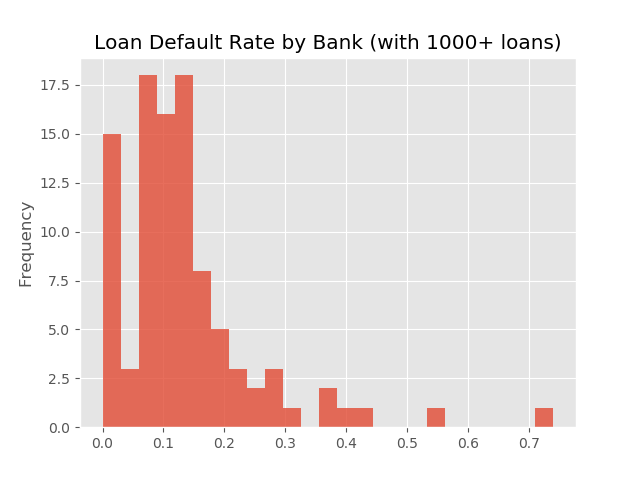
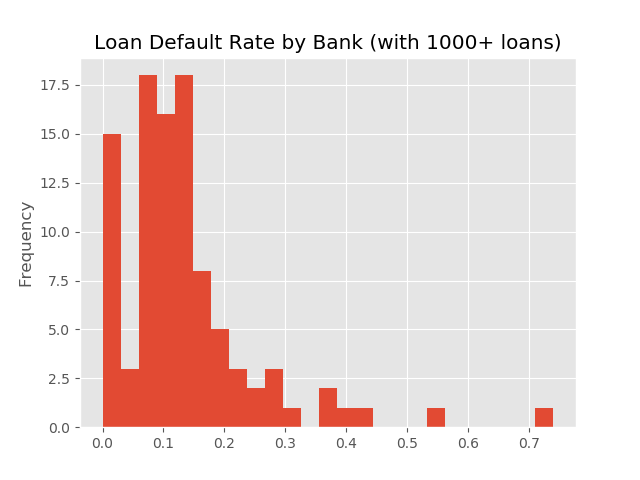
readme updated

diff --git a/src/model.py b/src/model.py
@@ -3,6 +3,7 @@ import pandas as pd
 import matplotlib.pyplot as plt
 plt.style.use('ggplot')
 plt.rcParams.update({'font.size': 10})
+from time import time
 
 from sklearn.preprocessing import StandardScaler 
 from sklearn.model_selection import train_test_split, GridSearchCV
@@ -81,9 +82,50 @@ def print_model_metrics(model, X_train, X_test, y_train, y_test):
     print("{} Precision (test):".format(name), precision_score(y_test, y_pred))
     print("{} Recall (test):".format(name), recall_score(y_test, y_pred))
 
+def plot_feature_importance(model, X, col_names):
+    importances = model.feature_importances_
+    #std = np.std([tree.feature_importances_ for tree in model.estimators_], axis=0)
+    indices = np.argsort(importances)[::-1]
+    name = model.__class__.__name__.replace('Classifier','')
+    # plt.bar(range(X.shape[1]), importances[indices],
+    #     color="r", yerr=std[indices], align="center")
+    plt.bar(range(X.shape[1]), importances[indices], color="r")
+    plt.title("{} Feature importances".format(name))
+    plt.xlabel("Feature number")
+    plt.ylabel("Feature importance")
+    plt.xticks(range(X.shape[1]), col_names[indices], rotation=45, fontsize=8, ha='right')
+
+    plt.xlim([-1, X.shape[1]])
+
+def gridsearch_with_output(estimator, parameter_grid, X_train, y_train):
+    '''
+        Parameters: estimator: the type of model (e.g. RandomForestRegressor())
+                    paramter_grid: dictionary defining the gridsearch parameters
+                    X_train: 2d numpy array
+                    y_train: 1d numpy array
+
+        Returns:  best parameters and model fit with those parameters
+    '''
+    model_gridsearch = GridSearchCV(estimator,
+                                    parameter_grid,
+                                    n_jobs=-1,
+                                    verbose=True)
+    model_gridsearch.fit(X_train, y_train)
+    best_params = model_gridsearch.best_params_ 
+    model_best = model_gridsearch.best_estimator_
+    print("\nResult of gridsearch:")
+    print("{0:<20s} | {1:<8s} | {2}".format("Parameter", "Optimal", "Gridsearch values"))
+    print("-" * 55)
+    for param, vals in parameter_grid.items():
+        print("{0:<20s} | {1:<8s} | {2}".format(str(param), 
+                                                str(best_params[param]),
+                                                str(vals)))
+    return best_params, model_best
+
 def load_split_data():
     df_loan = pd.read_pickle('data/loan_data')
-    df_loan = pd.read_pickle('data/loan_data')
+    feature_choice = ['Term', 'U_rate', 'SBA_g', 'GrAppv', 'SectorRisk', 'Default']
+    df_loan = df_loan[feature_choice]
     y = df_loan.pop('Default').values
     X = df_loan.values
     col_names = df_loan.columns
@@ -96,7 +138,7 @@ if __name__ == "__main__":
     (X_model, X_holdout, y_model, y_holdout), col_names = load_split_data()
 
     ### Rely on class_weight option to balance the data
-    X_train, X_test, y_train, y_test = train_test_split(X_model, y_model, test_size=0.2, random_state=42, stratify=y_model)
+    # X_train, X_test, y_train, y_test = train_test_split(X_model, y_model, test_size=0.2, random_state=42, stratify=y_model)
 
     # # Naive Bayes Model
     # # nb_model = MultinomialNB(alpha=1.0, fit_prior=True, class_prior=None)
@@ -123,4 +165,45 @@ if __name__ == "__main__":
     ### Rely on the undersample method to balance the data
     target_ratio = 0.45
     X_sampled, y_sampled = undersample(X_model, y_model, target_ratio)
+    X_train, X_test, y_train, y_test = train_test_split(X_sampled, y_sampled, test_size=0.2, random_state=42, stratify=y_sampled)
 
+    # Logistic Model
+    # lg_model = LogisticRegression(solver='lbfgs')
+    # print_model_metrics(lg_model, X_train, X_test, y_train, y_test)
+
+    # Randome Forest model
+    # rfc = RandomForestClassifier(n_estimators=300, n_jobs=-1, random_state=2,)
+    # print_model_metrics(rfc, X_train, X_test, y_train, y_test)
+    # plot_feature_importance(rfc, X_sampled, col_names)
+    # plt.savefig('images/rfc_feature_importances.png')
+    # plt.close()
+
+    # Gradient Descend Boost model 
+    # gbc = GradientBoostingClassifier(learning_rate=0.2, n_estimators=300, random_state=2,
+    #                                 min_samples_leaf=200, max_depth=3, max_features=3)
+    # print_model_metrics(gbc, X_train, X_test, y_train, y_test)
+    # plot_feature_importance(gbc, X_sampled, col_names)
+    # plt.savefig('images/gbc_feature_importances.png')
+    # plt.close()
+
+    # AdaBoost Model
+    # abc = GradientBoostingClassifier(learning_rate=0.2, loss='exponential', n_estimators=300, random_state=2,
+    #                                 min_samples_leaf=200, max_depth=3, max_features=3)
+    # print_model_metrics(abc, X_train, X_test, y_train, y_test)
+
+    ## Reduce model to 5 variables: Term, U_rate, SBA_g, GrAppv, Sector_Risk
+    ## Conduct gridSearch to find the best fitting gbc model
+
+    gradient_boosting_grid = {'learning_rate': [0.2, 0.1, 0.05],
+                              'max_depth': [3, 5],
+                              'min_samples_leaf': [50, 200],
+                              'max_features': [2, 3],
+                              'n_estimators': [300, 500],
+                              'random_state': [2]}
+    ts = time()
+    gdbr_best_params, gdbr_best_model = gridsearch_with_output(GradientBoostingClassifier(), 
+                                                               gradient_boosting_grid, 
+                                                               X_train, y_train)
+    te= time()
+    print("Time passed:", te-ts)
+    

diff --git a/src/data_eda.py b/src/data_eda.py
@@ -61,7 +61,7 @@ def plot_default_rate(df, col, title, bins=25, cutoff=0):
         ax.set_xlabel('')
     else:
         df_plot = df_grouped[df_grouped['LoanNr']>cutoff].sort_values('Default', ascending=False)
-        ax = df_plot['Default'].plot.hist(bins=bins, alpha=0.8)
+        ax = df_plot['Default'].plot.hist(bins=bins)
         ax.set_title(title)
 
 def plot_pca_explained_var(ax, pca):
@@ -76,8 +76,6 @@ def plot_pca_explained_var(ax, pca):
 
 if __name__ == "__main__":
 
-    df = pd.read_pickle('data/pickled_loan')
-    
     # us_unemploy = pd.read_csv('data/us_unemployment.csv', index_col=0)
     # ur = us_unemploy.values.reshape(-1,1)[:-8]
     # date_range = pd.date_range('1965-01','2020-05', freq='M')
@@ -89,38 +87,40 @@ if __name__ == "__main__":
     # plt.savefig('images/unemployment.png')
     # plt.close()
 
+    df = pd.read_pickle('data/pickled_loan')
+    df.drop(['grouper','Date'], axis=1, inplace=True)
+
     # df_state = df.groupby('State').mean()['Default']*100
     # columns =['State', 'Default_Rate']
     # m = heatmap_state(df_state, columns, 'Default Rate (%)', 'YlGn')
-
-    # plot_default_rate(df, 'Bank', "Loan Default Rate by Bank (with 3000+ loans)", cutoff=3000)
-    # plt.savefig('images/default_bank_3000.png')
-    # plt.close()
-
-    # plot_default_rate(df, 'Bank', "Loan Default Rate by Bank (with 1000+ loans)", cutoff = 1000)
-    # plt.savefig('images/default_bank_1000.png')
-    # plt.close()
 
     # plot_default_rate(df, 'Sector', "Default Rate by Sector (top 10)")
     # plt.savefig('images/default_sector.png')
     # plt.close()
 
-    df.drop(['grouper','Date'], axis=1, inplace=True)
+    plot_default_rate(df, 'Bank', "Loan Default Rate by Bank (with 3000+ loans)", cutoff=3000)
+    plt.savefig('images/default_bank_3000.png')
+    plt.close()
+
+    plot_default_rate(df, 'Bank', "Loan Default Rate by Bank (with 1000+ loans)", cutoff = 1000)
+    plt.savefig('images/default_bank_1000.png')
+    plt.close()
+
     df['SBA_g'] = df['SBA_Appv']/df['GrAppv']
-    df['stateRisk'] = df['State'].map({'FL':2, 'GA':2, 'DC':2, 'NV':2, 'IL':2, 'MI':2, 'TN':2, 'AZ':2, 'NJ':2, 'SC':2,
+    df['StateRisk'] = df['State'].map({'FL':2, 'GA':2, 'DC':2, 'NV':2, 'IL':2, 'MI':2, 'TN':2, 'AZ':2, 'NJ':2, 'SC':2,
                                        'NY':2, 'MD':2, 'KY':2, 'NC':2, 'TX':2, 'VA':2, 'CA':2, 'LA':1, 'DE':1, 'CO':1, 
                                        'UT':1, 'IN':1, 'AR':1, 'AL':1, 'OH':1, 'WV':1, 'MS':1, 'OK':1, 'OR':1, 'HI':1,
                                        'MO':1, 'PA':1, 'ID':1, 'CT':1, 'WA':1, 'MA':1, 'KS':1, 'WI':1, 'MN':1, 'IA':1,
                                        'RI':1, 'AK':1, 'NE':1, 'NM':1, 'NH':1, 'ME':0, 'SD':0, 'ND':0, 'VT':0, 'WY':0,
                                        'MT':0})
-    df['sectorRisk'] = df['Sector'].map({53:2, 52:2, 48:2, 51:2, 61:2, 56:2, 45:2, 23:2, 49:2, 44:2, 
+    df['SectorRisk'] = df['Sector'].map({53:2, 52:2, 48:2, 51:2, 61:2, 56:2, 45:2, 23:2, 49:2, 44:2, 
                                          72:2, 71:2, 81:1, 42:1, 31:1, 54:1, 32:1, 92:1, 22:1, 33:1,
                                          62:1, 55:1, 11:0, 21:0, 0:0})
     
-    df_loan = df[['stateRisk', 'sectorRisk', 'Term', 'NumEmp','LowDocu', 'GrAppv', 'SBA_g', 'U_rate','Default']]
+    df_loan = df[['StateRisk', 'SectorRisk', 'Term', 'NumEmp','LowDocu', 'GrAppv', 'SBA_g', 'U_rate','Default']]
     df_loan.to_pickle('data/loan_data')   
 
-    # X1 = df_loan[['stateRisk', 'sectorRisk', 'Term', 'NumEmp','GrAppv', 'SBA_g', 'U_rate']].values
+    # X1 = df_loan[['StateRisk', 'SectorRisk', 'Term', 'NumEmp','GrAppv', 'SBA_g', 'U_rate']].values
     # X2 = df_loan[['LowDocu']].values
     # scaler = StandardScaler(copy=True, with_mean=True, with_std=True)
     # X1_std_ss = scaler.fit_transform(X1)

diff --git a/src/data_clean.py b/src/data_clean.py
@@ -69,6 +69,7 @@ if __name__ == "__main__":
     us_unemploy = pd.read_csv('data/us_unemployment.csv', index_col=0)
     ur = us_unemploy.values.reshape(-1,1)[:-8]
     date_range = pd.date_range('1965-01','2020-05', freq='M')
+
     df_ur = pd.DataFrame(data=ur, index=date_range, columns=['U_rate'])
     df_ur['Date'] = df_ur.index
 

diff --git a/README.md b/README.md
@@ -3,12 +3,12 @@
 # Table of Contents
 1. [Background & Motivation](#background)
 2. [Data](#data)
-3. [EDA](#eda)
+3. [Data EDA](#eda)
 4. [Models](#model)
 5. [Results](#result)
 
 
-## Background & Motivation <a name="background"></a>
+## 1. Background & Motivation <a name="background"></a>
 
 The U.S. Small Business Administration (SBA) is a United States government agency that provides support to entrepreneurs and small businesses.  The agency was founded on July 30, 1953 with the primary goals of promoting and assisting small enterprises in the U.S.  In the United States, small businesses have been a primary source of innovation and job creation.  According to a [JP Morgan report](https://www.jpmorganchase.com/corporate/institute/small-business-economic.htm), small businesses accounted for over half (51.2%) of the net job creation in 2014, and 48% of US overall employment as of 2014.   
 
@@ -16,7 +16,7 @@ One way the SBA provides assistance to small businesses is to provide easier acc
 
 We are in the middle of the pandemic Covid-19.  It has brought sudden and significant threats not only to human health at the risk of overcrowding the medical system but also to normal economic operations when people stay at home to "flatten the curve".  Many small businesses are suffering.  On April 21, 2020, the U.S. Senate approved a $484 billion coronavirus relief package that would provide loans to distressed small businesses.  These loans are administered by commercial banks as the "Paycheck Protection Program (PPP) loans".  In this study, I would like to build models on historical SBA guaranteed loans.  My goal is to identify the key risk factors that differentiate high-risk loans (resulting in default) from low-risk loans (with full repayments). 
 
-## Data & EDA <a name="data"></a>
+## 2. Data & EDA <a name="data"></a>
 
 I found the dataset on kaggle.com, though it originally came from the U.S. SBA.  It contains historical data from 1968 to 2014 (899,164 observations in total).  The variable name, the data type and a brief description of each variable is found in the below table:
 
@@ -53,7 +53,7 @@ I found the dataset on kaggle.com, though it originally came from the U.S. SBA. 
 
 The following actions are taken to transform the data:
 
-* __NAICS__ (North American Industry Classification System):  This is a 2- through 6-digit hierachical classfication system used by the Federal agencies to classify business establishments for the statiscial collection, analysis, ana presentation of data.  The first two digits of NAICS represents the economic sector.  Even though the original data contains the 6-digit code (despite many missing values), efforts are taken to reduce the code to the first two digits, therefore summarizing the loans to sector level.  The below table shows the description of the NAICS sectors, with more details found on the [U.S. Census page](https://www.census.gov/cgi-bin/sssd/naics/naicsrch?chart=2017).
+* __NAICS__ (North American Industry Classification System):  This is a 2- through 6-digit hierachical classfication system used by the Federal agencies to classify business establishments for the purpose of statiscial collection, analysis, ana presentation of data.  The first two digits of NAICS represents the economic sector.  Even though the original data contains the 6-digit code (despite many missing values), efforts are taken to reduce the code to the first two digits, therefore summarizing the loans to the sector level.  The below table shows the description of the NAICS sectors, with more details found on the [U.S. Census page](https://www.census.gov/cgi-bin/sssd/naics/naicsrch?chart=2017).
 
    | Sector | Description                                                              |
    |--------|--------------------------------------------------------------------------|
@@ -88,11 +88,36 @@ The following actions are taken to transform the data:
 
 * __MIS_Status__: This is the target variable that we are interested in.  I choose to convert the variable to a Boolean type variable __Default__ where 1=CHGOFF and 0=PIF. 
 
-* __Currency_Variables__:  The original data variables with type = 'Currency' are formated in the accounting way with "$" and "," separators. These are converted to the float data type. 
+* __Currency_Variables__:  The original data variables with type = 'Currency' are formated in the accounting convention with "$" and "," separators. These are converted to the float data type. 
 
-## EDA <a name="eda"></a>
+* __U.S. Unemployment Rate__:  The final variable which isn't contained in the original SBA loan dataset is the U.S. unemployment rate, a monthly data series obtained from from the U.S. [Bureau of Labor Statistics](https://data.bls.gov/timeseries/LNS14000000). It is introduced as a proxy for where the U.S. economy stands during an economic cycle.  The unemployment rate data is merged with the SBA loan data on the loan approval date.  The thought behind this is loans issued during bad economic times (with high unemployment rate) can have higher default risk and vice versa. Below is a plot of the unemployment rate during 1965.01 to 2020.04.  Admittedly our SBA loan data ends roughly at mid 2014.
+
+![](images/unemployment.png)
+
+## 3. Data EDA <a name="eda"></a>
+
+Which explanatory variables may be good predicators of whether a loan will go into default or not?  This section uses data exploratory analysis to investigate and gather useful features for the predicative model.  
+
+### 3.1. Location (State)
+
+Location (in this case State) can be a possible indicator for potential loan risk.  The 50 states and Washington DC have different economic environments and industry concentration, therefore leading to different default rates.  As shown by the heat map below, loan default rates definitely vary across states with Florida leading the pack at around 27.4%.  This could be explained by Florida suffering more from the boom and bust of real estate cycles, as well as more natural disaters like typhoons.  In contrast, western states like Montana and Wyoming have lower loan default rates (in the 6% range).  This could be because these states traditionally relies on the oil and mineral industries which were more or less stable during the sample periods.     
 
 ![](images/default_state.png)
+
+### 3.2. Sectors
+
+The below bar charts shows the top 10 highest loan default sectors.  Cross-referencing the sector NAICS table above, we can see that __sector 53__ is "Real estate and rental and leasing".  Real estate secotor is pro-cyclical and tends to overshoot in both economic booms and busts.  Since 1980, the United States has experienced at least two big real-estate led economic cycles, the most recent being the 2008-2009 financial crisis.  On the other of the spectrum, __sector 11__ (Agriculture, forestry, fishing and hunting), __sector 21__ (Mining, quarring, and oil and gas extraction), __sector 55__ (Management), and __sector 62__ (Health care and social assistance) suffer from lower loan default risks (in the 10% range) either because the sector is acyclical or hasn't experienced significant downward price adjustments.  (The same cannot be said about oil and gas industry in the Covid-19 Crisis, though the cause is not the virus alone.) 
+
+![](images/default_sector.png)
+
+### 3.3. Bank (lender)
+
+Banking is an industry with high regulations.  Typically commercial banks have long established guidance to assess loan risks.  Therefore we wouldn't expect the commercial bank or which state the bank reside in has any impact on the loan default rates, unless the bank is not following the regulatory rules.  Since there are many banking/credit union entities in the data set, most of issue less than 1000 loans.  I choose to plot two histograms of all banks extending 1000+ or 3000+ loans, see below charts.  As expected, we can't make the association that banks with more loans issued have lower / higher default rates.   
+
+![](images/default_bank_3000.png)
+
+![](images/default_bank_1000.png)
+
 
 ## Models & Comparison <a name="model"></a>
 
